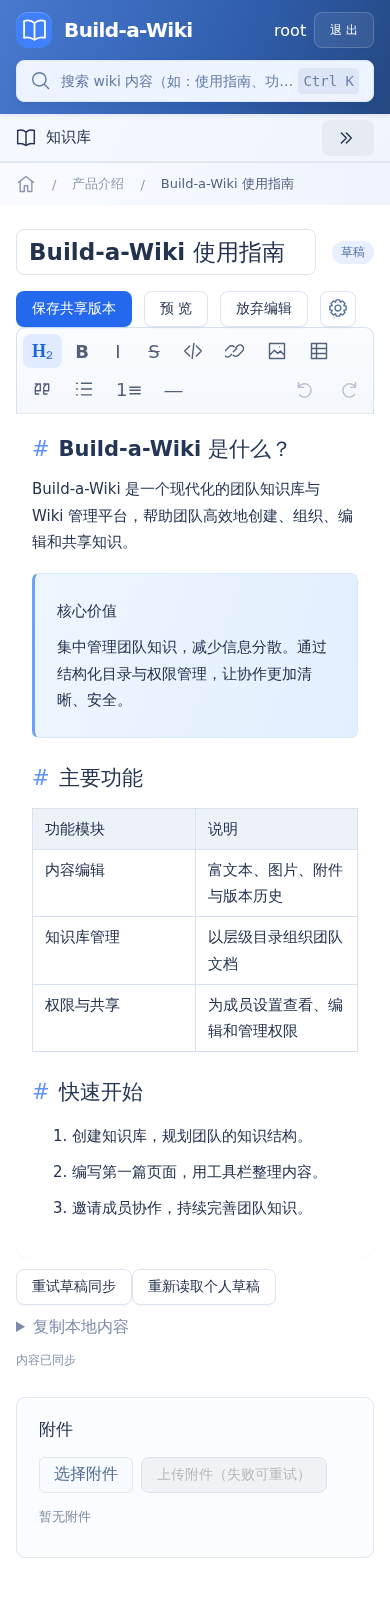
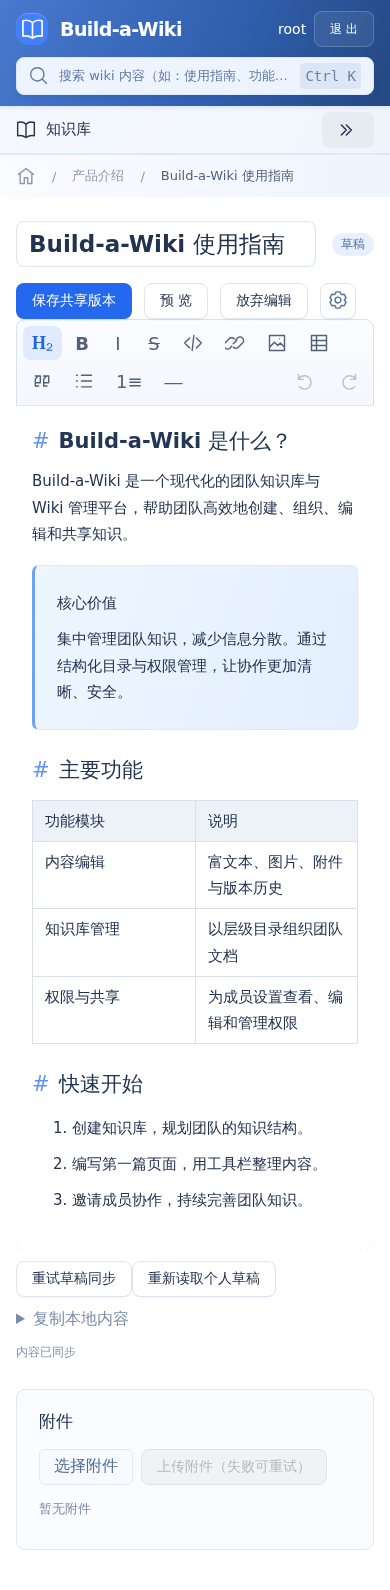
style(ui): reduce topbar height and scale header content

diff --git a/frontend/src/style.css b/frontend/src/style.css
@@ -6,6 +6,7 @@
   --blue: #2468ed;
   --muted: #7d8ba4;
   --border: #e1e8f2;
+  --topbar-height: 61.2px;
 }
 * {
   box-sizing: border-box;
@@ -30,7 +31,7 @@ svg {
   min-height: 100vh;
   display: grid;
   grid-template-columns: 280px minmax(0, 1fr);
-  grid-template-rows: 68px 1fr;
+  grid-template-rows: var(--topbar-height) 1fr;
 }
 .topbar {
   grid-column: 1 / -1;
@@ -51,7 +52,7 @@ svg {
   align-items: center;
   gap: 12px;
   color: white;
-  font-size: 25px;
+  font-size: 23px;
   font-weight: 720;
   letter-spacing: -0.6px;
   white-space: nowrap;
@@ -61,26 +62,27 @@ svg {
   place-items: center;
   background: #4080fa;
   border-radius: 12px;
-  height: 49px;
-  width: 49px;
+  height: 44px;
+  width: 44px;
   box-shadow: inset 0 1px 0 #ffffff35;
 }
 .brand-mark svg {
-  width: 32px;
-  height: 32px;
+  width: 29px;
+  height: 29px;
 }
 .global-search {
   width: min(600px, 100%);
   margin: 0 auto;
 }
 .global-search .ant-input-affix-wrapper {
-  height: 42px;
-  padding: 8px 14px;
+  height: 38px;
+  padding: 6px 12px;
   border-color: #dce8ff;
   background: #edf3ff;
   box-shadow: 0 2px 6px #122d621a;
 }
 .global-search input.ant-input {
+  font-size: 13px;
   background: transparent;
   color: #294576;
 }
@@ -105,13 +107,14 @@ kbd {
   border-left: 1px solid #ffffff35;
 }
 .account {
+  font-size: 14px;
   color: white;
 }
 .avatar {
   display: grid;
   place-items: center;
-  height: 34px;
-  width: 34px;
+  height: 31px;
+  width: 31px;
   border-radius: 50%;
   background: #eaf1ff;
   border: 2px solid #fff;
@@ -126,9 +129,9 @@ kbd {
 }
 .sidebar {
   position: sticky;
-  top: 68px;
+  top: var(--topbar-height);
   align-self: start;
-  height: calc(100vh - 68px);
+  height: calc(100vh - var(--topbar-height));
   background: linear-gradient(120deg, #f5f8ff, #f0f5fc);
   border-right: 1px solid var(--border);
   display: flex;
@@ -743,21 +746,21 @@ summary:focus-visible {
   }
   .topbar {
     position: relative;
-    padding: 12px 16px;
+    padding: 11px 16px;
     flex-wrap: wrap;
-    gap: 12px;
+    gap: 10px;
   }
   .brand {
     min-width: 0;
-    font-size: 20px;
+    font-size: 19px;
   }
   .brand-mark {
-    width: 36px;
-    height: 36px;
+    width: 32px;
+    height: 32px;
   }
   .brand-mark svg {
-    width: 25px;
-    height: 25px;
+    width: 23px;
+    height: 23px;
   }
   .global-search {
     order: 3;

diff --git a/docs/UI_REDESIGN.md b/docs/UI_REDESIGN.md
@@ -151,3 +151,7 @@ docker compose --env-file .data/compose-test.env -p wiki-acceptance \
 创建知识库、顶层页面及子页面统一使用 `useDialogFocusReturn`：记录触发点击的真实来源（鼠标/键盘），关闭后保留焦点位置；鼠标入口恢复时不显示键盘轮廓，键盘入口仍显示轮廓。临时标记在失焦或下一次键盘操作时清除，避免影响后续 Tab 导航；通过 `preventScroll` 避免恢复焦点带动侧栏。减少动态效果也走完整关闭生命周期。新增固定标识和操作来源采用常量。
 
 回归覆盖鼠标取消、回车提交、键盘 Enter 打开/Escape 关闭、混合操作和创建子页面后点击正文；失焦后的 12 帧均无焦点框闪现。正常/减少动态效果两项动效回归通过（12.3 秒），UI 和状态卡片回归也通过；生产构建通过。本地镜像 `8a4db45c970b`，无新增依赖。
+
+## 紧凑顶部栏
+
+桌面顶栏由 68px 缩至 61.2px（90%），通过 `--topbar-height` 同步控制网格行高、侧栏吸顶偏移和可滚动高度。品牌字号由 25px 调至 23px，Logo、头像及搜索框同步缩小；移动端收紧双行间距与图标尺寸，保留搜索框和账号操作。生产构建及状态卡片、目录稳定性、响应式 UI 三项浏览器回归通过（27.5 秒），三种尺寸截图已更新。本地前端镜像 `7c838d5ad2fd`，无新增依赖。

diff --git a/docs/CHECKLIST.md b/docs/CHECKLIST.md
@@ -121,3 +121,4 @@ A组任务已完成并记录校验小结。复现命令和结果详见 VALIDATIO
 | 运行状态卡片 | ✔ | 状态段落改为四张响应式卡片，突出维护状态、任务数量与容量；新增文案及固定值使用常量，构建和异常状态浏览器测试通过，本地前端及截图已更新，无新增依赖。 |
 | 统一六齿齿轮 | ✔ | 公共 Icon 的 settings 图形统一为对称六齿，页面设置、审计导航与维护状态卡片共用同一定义，无新增依赖。 |
 | 创建加号焦点恢复 | ✔ | 复现鼠标打开后回车提交的焦点框残留；记录入口操作来源，保留键盘提示并清除鼠标恢复轮廓；修复减少动态效果下焦点丢失，正常/简化动效及 UI 回归通过，失焦逐帧无闪框，无新增依赖。 |
+| 顶栏高度收紧 | ✔ | 桌面高度调整为原来的 90%，同步缩小品牌、搜索框及头像，并统一侧栏偏移；移动端适配、构建和三项浏览器回归通过，无新增依赖。 |
